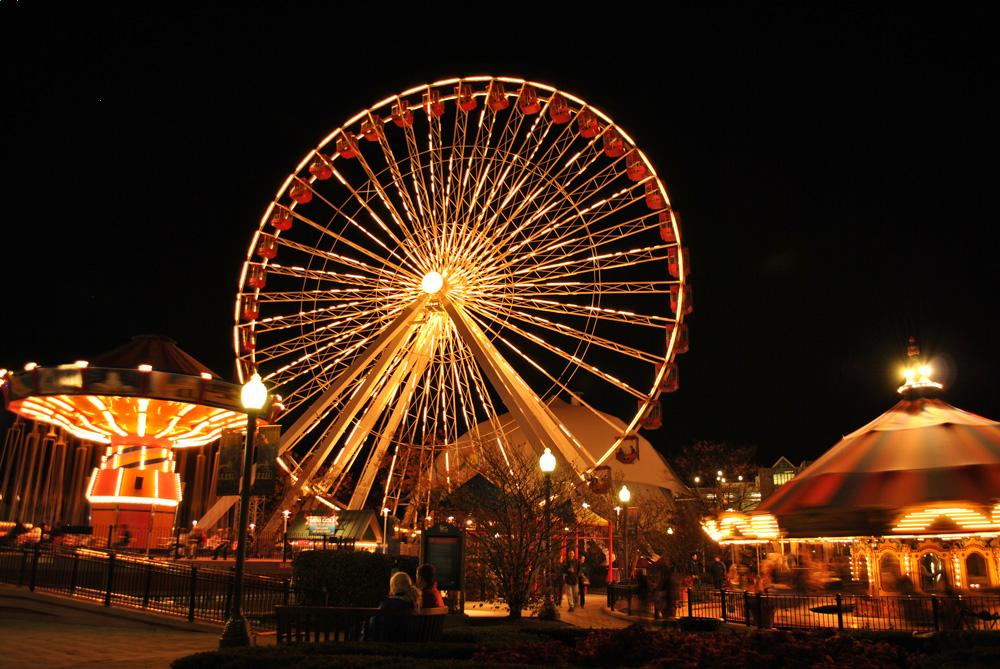
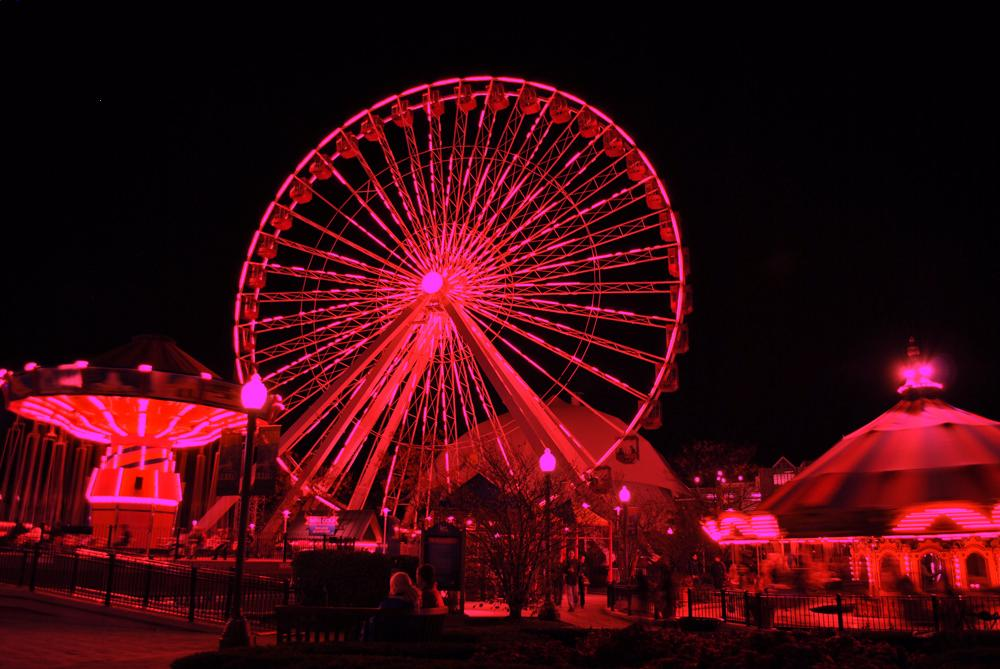
11/10/25
funi colors

diff --git a/ColorLabs17/TestPicture17.java b/ColorLabs17/TestPicture17.java
@@ -35,8 +35,8 @@ public class TestPicture17
      Picture ferris2 = new Picture("images/2000 ferris wheel2.jpg");
      Picture ferris3 = new Picture("images/2000 ferris wheel2.jpg");
 
-     apic.explore();
-     ferris1.explore();
+     //apic.explore();
+     //ferris1.explore();
      //moto.explore();
      //makes an array of pixels
      Pixel[] pixels;
@@ -63,7 +63,7 @@ public class TestPicture17
     spot.setColor(newColor);
     
     
-    
+    //ferris1.explore();
     
     
     System.out.println(pixels[17].getColor());
@@ -72,27 +72,57 @@ public class TestPicture17
         Pixel yuck = ferris1.getPixel((int)Math.random()*1000, (int)Math.random()*1000);
         yuck.setColor(Color.green);
     }
+    //ferris1.explore();
     
     
     
-    /*
+    Pixel[] Mpixels;
+    Mpixels = ferris1.getPixels();
+    
+    
+    
     pixels[17].setColor(Color.blue);
     spot.setColor(new Color(252,252,252));
     pixels[500034].setColor(Color.blue);
 
-    ferris1.explore();
-/*
+    //ferris1.explore();
+
    // loop to access indexes of array or collection
-
-    //for each loop spot  is a ?
-    for (Pixel spot : pixels)
+//red
+/*    //for each loop spot  is a ?
+    for (Pixel spot1 : Mpixels){
     System.out.println( spot );
+    int red=spot1.getRed();
+    red=(int)(red*.25);
+    spot1.setRed(red);
+    
+}
+ferris1.explore();
+*/ 
+//blue 
+/*  
+for (Pixel spot1 : Mpixels){
+    System.out.println( spot );
+    int blue=spot1.getBlue();
+    blue=(int)(blue*.25);
+    spot1.setBlue(blue);
+    
+}
+ferris1.explore();  
+*/
+//green
+/*
+for (Pixel spot1 : Mpixels){
+    System.out.println( spot );
+    int green=spot1.getGreen();
+    green=(int)(green*.25);
+    spot1.setGreen(green);
+    
+}
+ferris1.explore();  
+*/ 
 
-
-   
- /**/
-
- /**
+ /*
   * Method to clear red from picture
   * @param none
   * @return none
